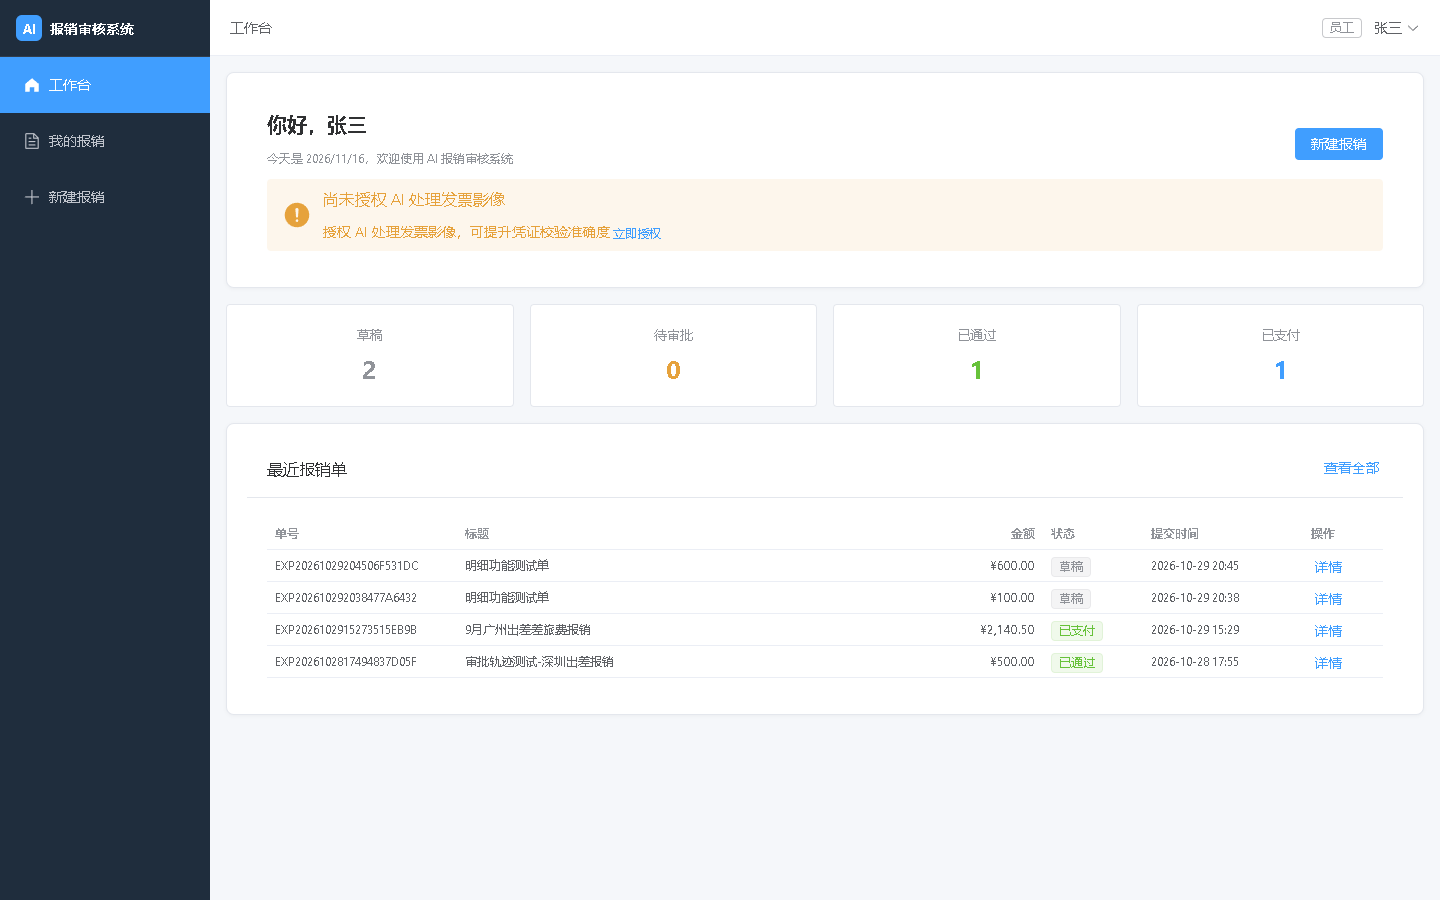
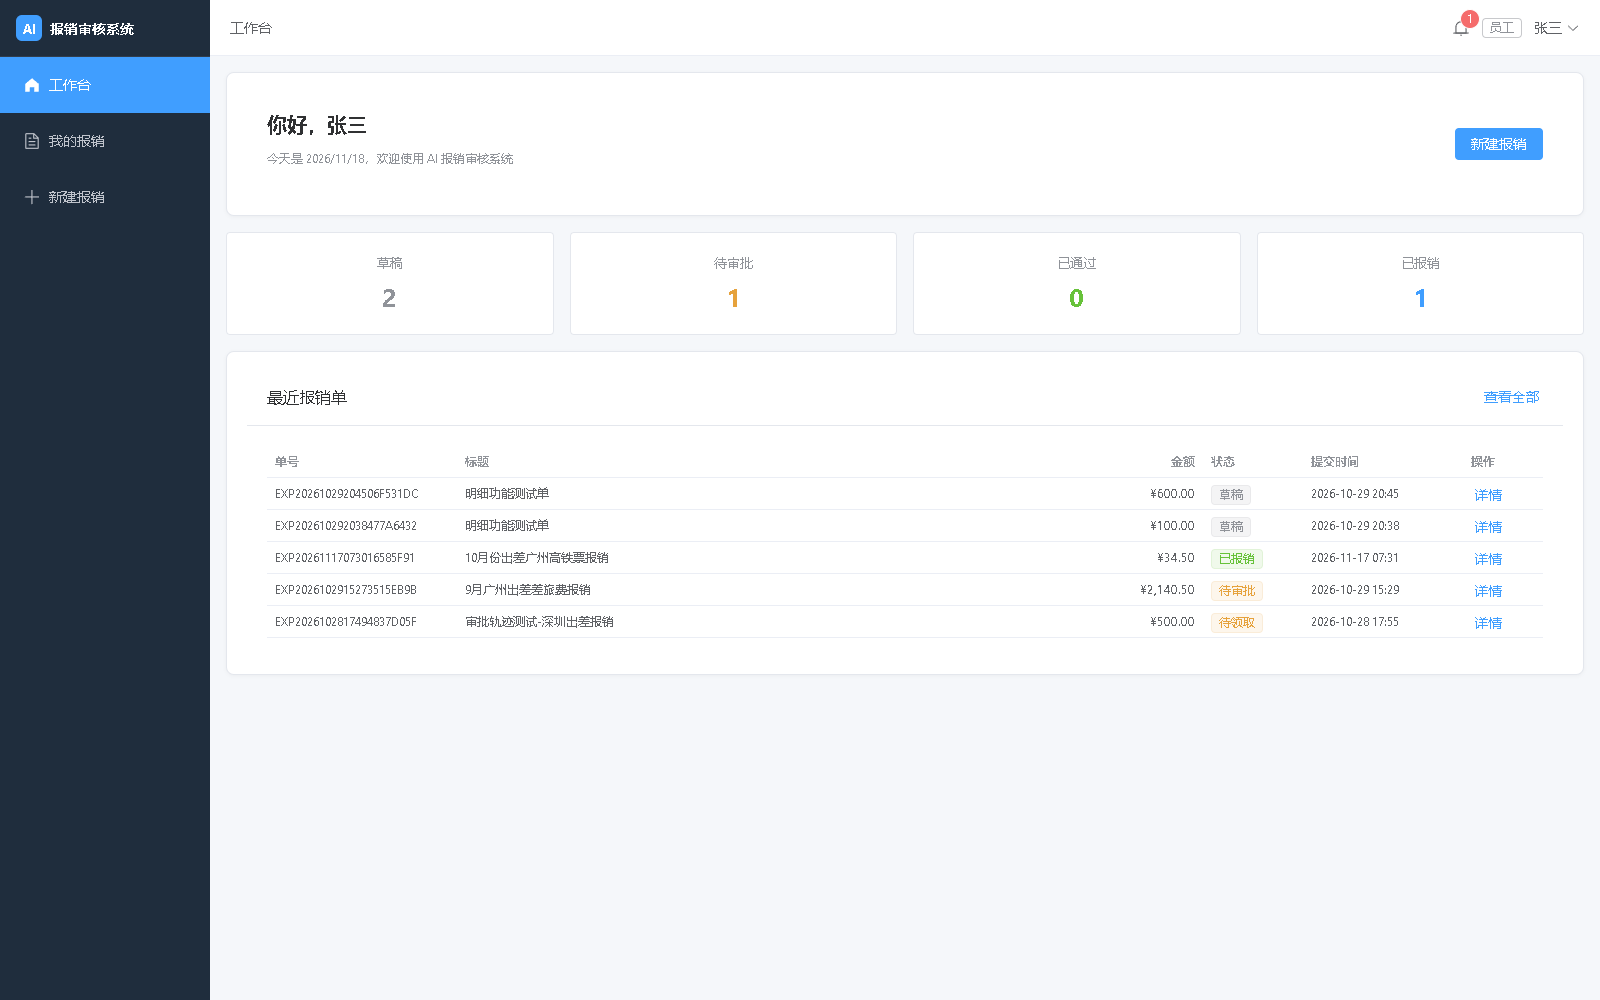
ci: 添加 GitHub Actions，并更新两阶段结算截图与文案

diff --git a/frontend/src/views/ExpenseDetail.vue b/frontend/src/views/ExpenseDetail.vue
@@ -36,7 +36,7 @@
         </el-descriptions-item>
         <el-descriptions-item label="创建时间">{{ formatTime(expense.created_at) }}</el-descriptions-item>
         <el-descriptions-item label="提交时间">{{ formatTime(expense.submitted_at) }}</el-descriptions-item>
-        <el-descriptions-item label="支付时间">{{ formatTime(expense.paid_at) }}</el-descriptions-item>
+        <el-descriptions-item label="确认领取">{{ formatTime(expense.paid_at) }}</el-descriptions-item>
         <el-descriptions-item label="说明" :span="3">{{ expense.description || '-' }}</el-descriptions-item>
       </el-descriptions>
     </el-card>

diff --git a/frontend/src/views/Dashboard.vue b/frontend/src/views/Dashboard.vue
@@ -94,7 +94,7 @@ const cards = computed(() => [
   { label: '草稿', value: counts.value.draft || 0, color: 'text-info' },
   { label: '待审批', value: counts.value.pending || 0, color: 'text-warning' },
   { label: '已通过', value: counts.value.approved || 0, color: 'text-success' },
-  { label: '已支付', value: counts.value.paid || 0, color: 'text-primary' },
+  { label: '已报销', value: counts.value.paid || 0, color: 'text-primary' },
 ])
 
 /**

diff --git a/frontend/src/views/Reports.vue b/frontend/src/views/Reports.vue
@@ -56,7 +56,7 @@
         <el-table-column label="总金额" width="150">
           <template #default="{ row }">{{ formatMoney(row.total_amount) }}</template>
         </el-table-column>
-        <el-table-column label="已支付" width="150">
+        <el-table-column label="已报销" width="150">
           <template #default="{ row }">{{ formatMoney(row.paid_amount) }}</template>
         </el-table-column>
       </el-table>

diff --git a/README.md b/README.md
@@ -1,5 +1,7 @@
 # AI Agent 财务报销审核系统
 
+[![CI](https://github.com/im1530/expense-audit-system/actions/workflows/ci.yml/badge.svg)](https://github.com/im1530/expense-audit-system/actions/workflows/ci.yml)
+
 一个**可运行**的报销审核平台：Vue 3 前端 + FastAPI 后端，核心是把「制度条款」变成可检索、可引用的依据，把「规则」变成确定性结论，再让 LLM 补充规则覆盖不到的疑点。
 **AI 只出建议、人工做决定；AI 失败自动降级为规则结论，绝不阻断审批。**
 
@@ -7,6 +9,7 @@
 - 前端 13 个页面（含 4 个管理端）· 30 个单测
 - 制度检索核心条款覆盖 82.4% → **100%**（68 条评测案例，离线可复现）
 - 96 条标注集：决策一致率 100%、风险等级 100%、高危漏放 0
+- 两阶段结算：财务登记 → 提交人确认领取，站内通知，制度 v1.3
 
 ## 它解决什么问题
 
@@ -112,7 +115,7 @@ cd ../frontend && npm test                                      # 30 个，jsdom
 - **票据真实、事由构造、模拟公司抬头**，不是公司真实报销；原始图片/PDF 不进仓库；
 - OCR 10 条：类型/金额/日期/商户 **40/40**；交通票日期口径问题已通过 Prompt v2 修复；
 - 风险链路：票面 34.50 vs 明细 1200 → `high / suggest_reject`，document → rule → risk → decision 联动正常；
-- 审批链路：测试库全链路 + 生产入口（443）两级审批/支付均通过；
+- 审批链路：测试库全链路 + 生产入口（443）两级审批均通过；结算链路在测试库/Docker 已验证“登记 → 提交人确认”；
 - 独立双标：60 条盲标 κ=0.9495（95%CI 0.8705–1.0000），2 条分歧已裁决；
 - 详见 `backend/evaluation/reports/`（`real_self_v1_*`、`blind_v2_*`、`e2e_smoke_20261115.md`）。
 
@@ -150,6 +153,12 @@ expense-audit-system/
 | 工作流轨迹 | 统计报表 |
 |---|---|
 | ![工作流轨迹](docs/images/trace.png) | ![统计报表](docs/images/reports.png) |
+
+### 两阶段结算（财务登记 → 提交人确认领取）
+
+| 报销结算 | 财务登记 | 站内通知 |
+|---|---|---|
+| ![报销结算](docs/images/settlement.png) | ![财务登记](docs/images/register.png) | ![站内通知](docs/images/notifications.png) |
 
 
 ## 状态与边界
